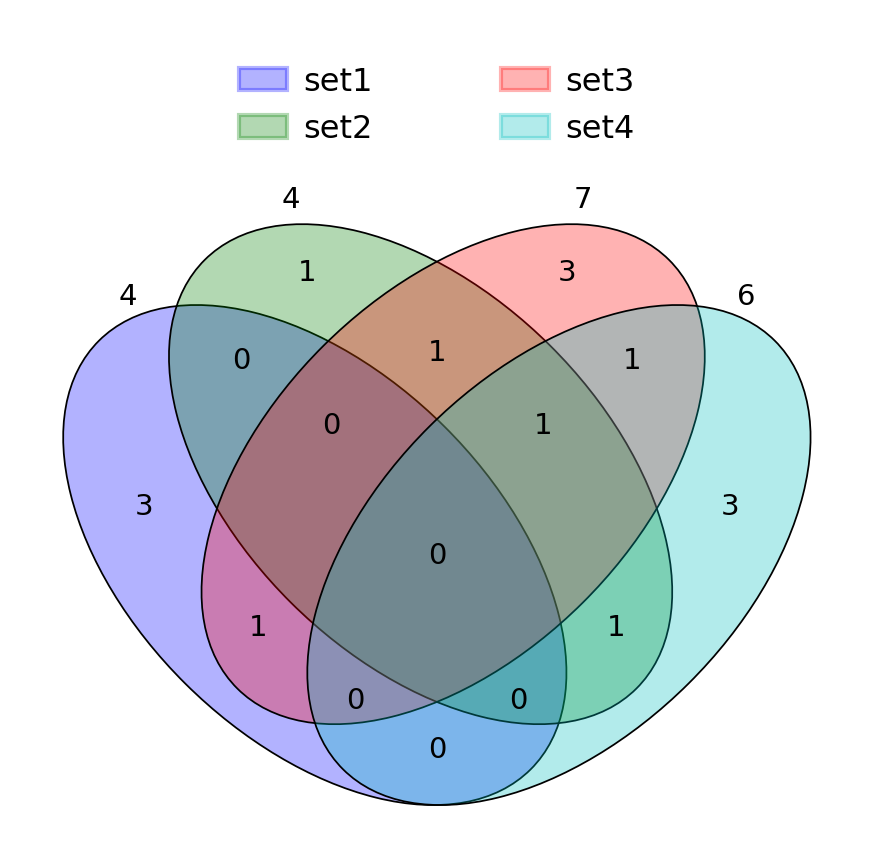
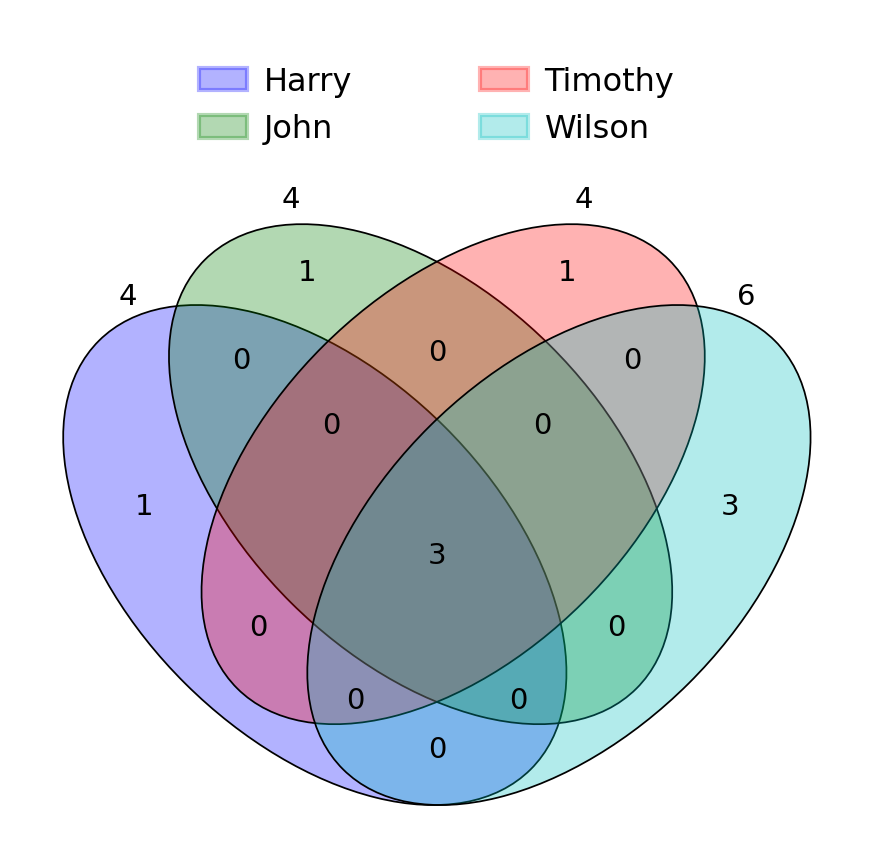
.

diff --git a/Python/Program 6/Venndiagram.py b/Python/Program 6/Venndiagram.py
@@ -1,10 +1,10 @@
 from venny4py.venny4py import *
 
 sets = {
-    'set1': set(list("Harry")),
-    'set2': set(list("John")),
-    'set3': set(list("Timothy")),
-    'set4': set(list("Wilson"))
+    'Harry': set(list("set1")),
+    'John': set(list("set2")),
+    'Timothy': set(list("set3")),
+    'Wilson': set(list("set4pi"))
 }
 
 venny4py(sets=sets)
